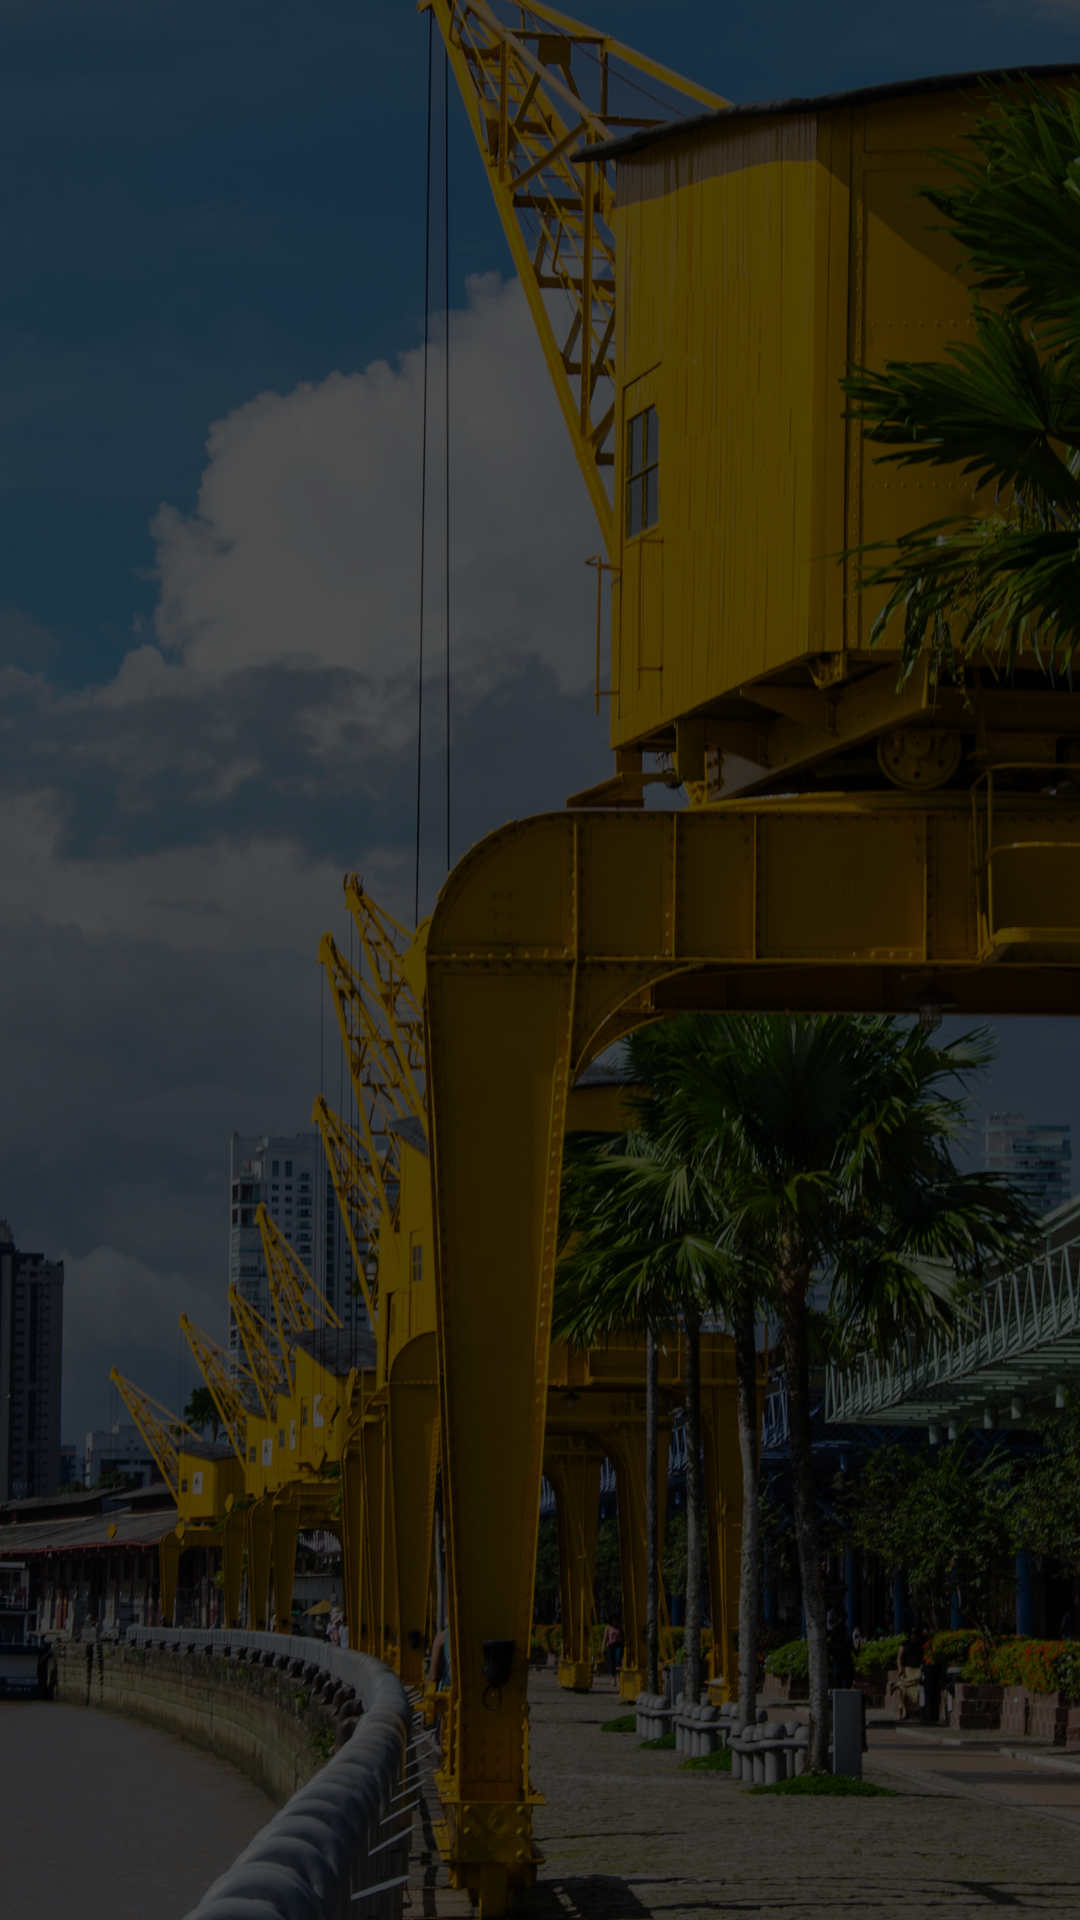
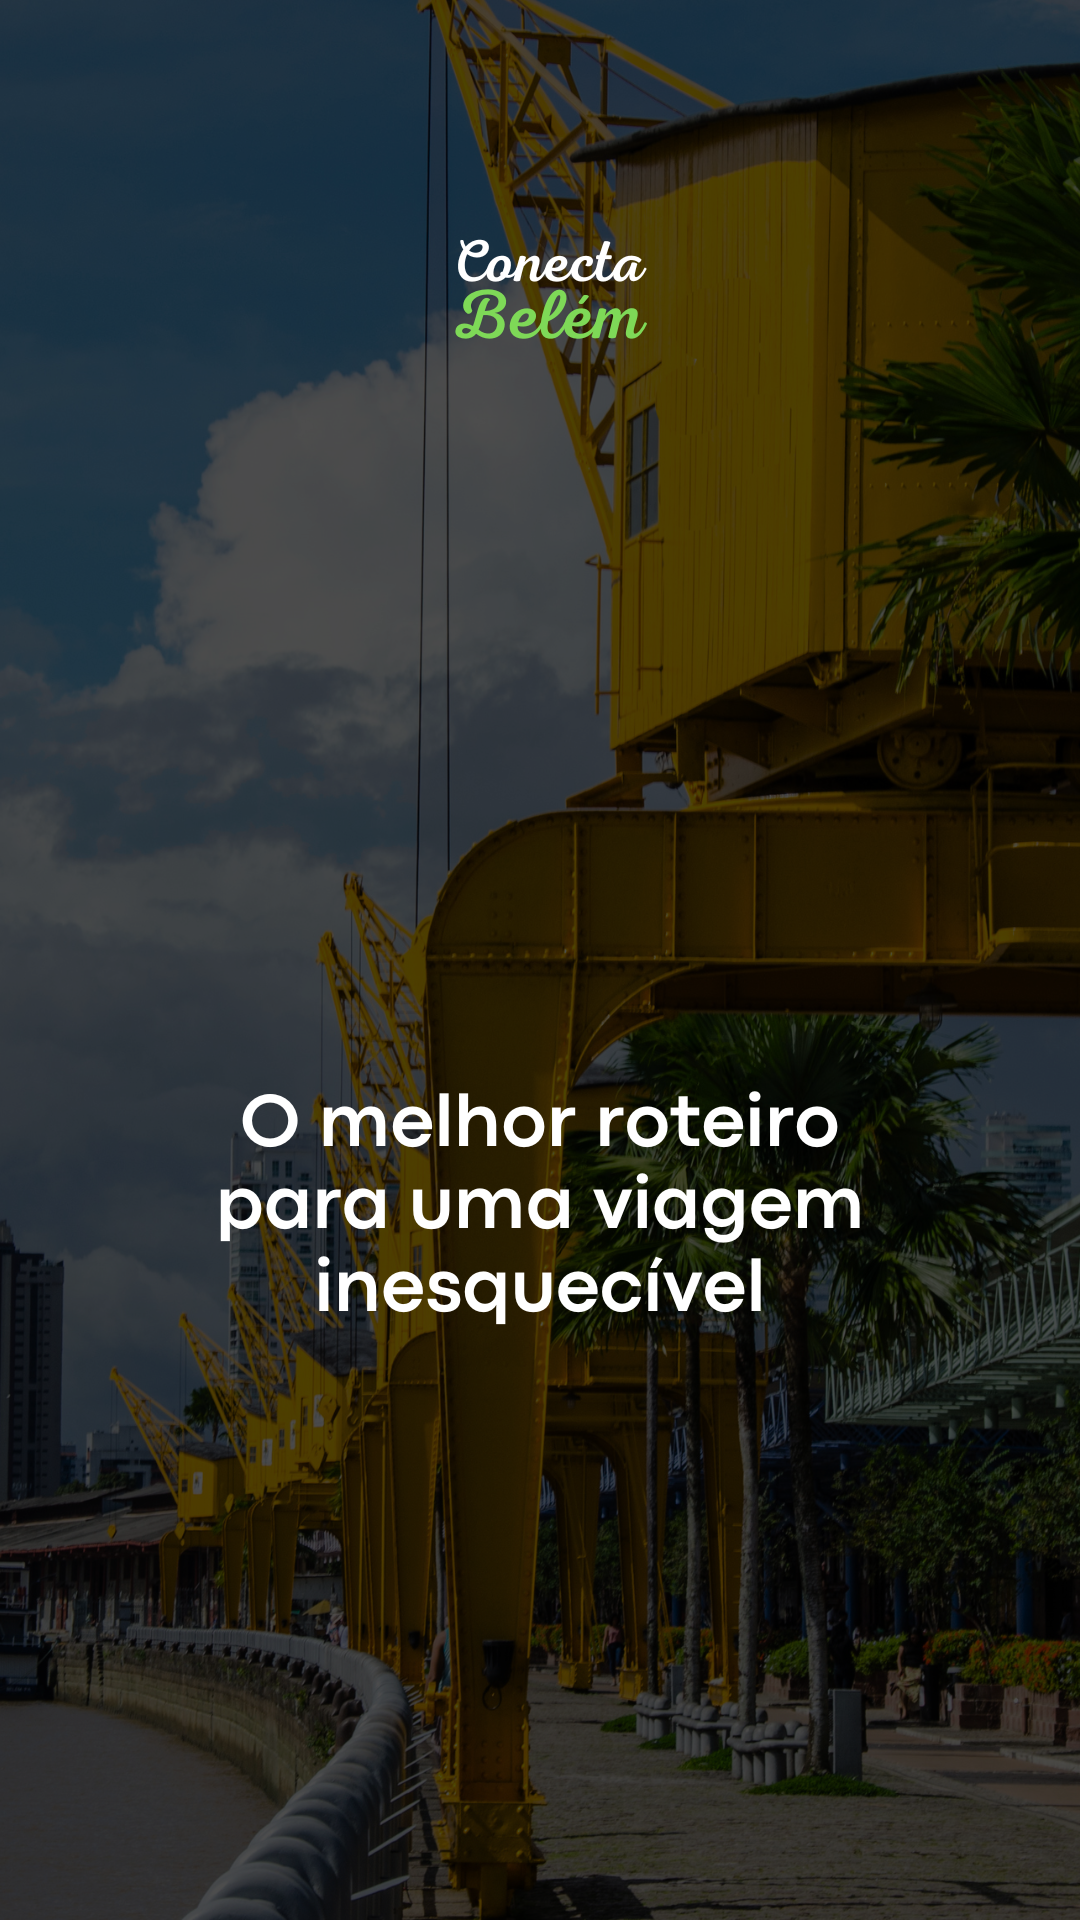
a

Changed region(s): [[0.1833, 0.5625, 0.7944, 0.6875], [0.4278, 0.125, 0.6111, 0.1875]]

diff --git a/conecta-belem/src/pages/Inicio/index.js b/conecta-belem/src/pages/Inicio/index.js
@@ -11,46 +11,39 @@ export function Inicio() {
     source={require('../../assets/background-estacao-das-docas.png')}
     style={styles.backgroundImage}
     >
+
     <View style={styles.container}>
-      <Text style={[styles.text, { color: "white" }]}>O melhor roteiro para uma viagem inesquecível</Text>
       <TouchableOpacity onPress={() => navigation.navigate('Home')} style={styles.button}>
         <Text style={styles.buttonText}>Avançar</Text>
       </TouchableOpacity>
     </View>
   </ImageBackground>
+
+
   );
 }
 
   const styles = StyleSheet.create({
     backgroundImage: {
       flex: 1,
-      resizeMode: 'cover',
+      resizeMode: 'contain',
       // outras estilizações conforme necessário
     },
     container: {
       flex: 1,
-      backgroundColor: 'rgba(0, 0, 0, 0.6)',
       justifyContent: 'center',
       alignItems: 'center',
-    },
-    text: {
-      fontSize: 44,
-      fontWeight: 'bold',
-      color: 'white',
-      width: 350,
-      textAlign: 'center',
-      // outras estilizações conforme necessário
     },
     button: {
       backgroundColor: '#028043',
       paddingVertical: 20,
       paddingHorizontal: 30,
-      borderRadius: 5,
-      marginTop: 50,
+      borderRadius: 8,
+      marginTop: 450,
     },
     buttonText: {
       fontSize: 18,
       color: '#fff',
-      fontWeight: 'bold',
+      fontWeight: 'regular',
     },
   });

diff --git a/conecta-belem/src/pages/Home/index.js b/conecta-belem/src/pages/Home/index.js
@@ -1,16 +1,20 @@
 import { StatusBar } from 'expo-status-bar';
-import { StyleSheet, Text, View, Image } from 'react-native';
+import { StyleSheet, Text, View, Image, ImageBackground } from 'react-native';
 
 export function Home() {
   return (
     <View style={styles.container}>
+      <Text>Olá</Text>
     </View>
-
-    
   );
 }
 
 const styles = StyleSheet.create({
+  backgroundImage: {
+    flex: 1,
+    resizeMode: 'contain',
+    // outras estilizações conforme necessário
+  },
   container: {
     flex: 1,
     backgroundColor: '#fff',
